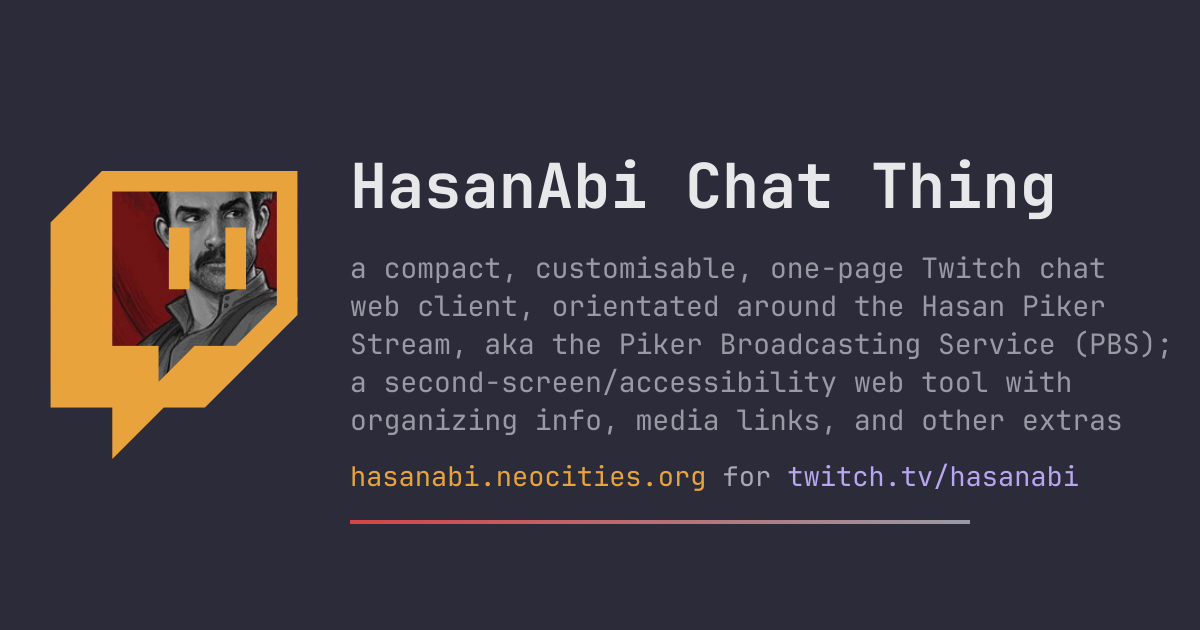
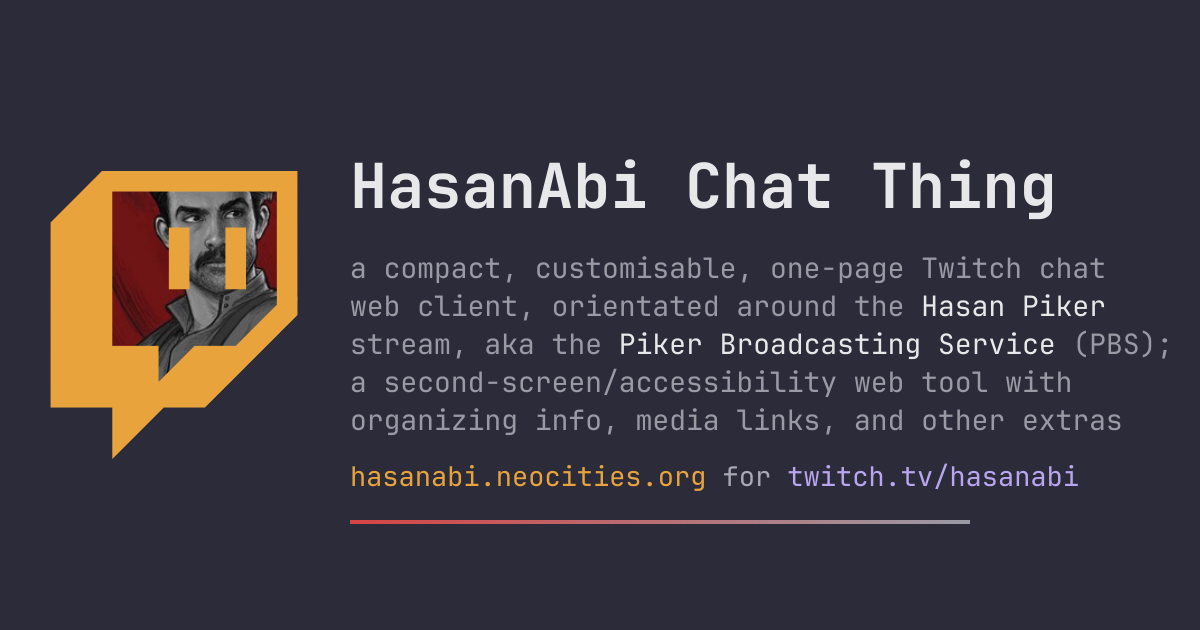
about: refine the og card wording
The stream name uses sentence case and the two Piker names sit in the
card's title colour against the muted description copy.

Generated with [Devin](https://devin.ai)

Changed region(s): [[0.5242, 0.4524, 0.925, 0.573], [0.2775, 0.5127, 0.3083, 0.5429]]

diff --git a/about/index.html b/about/index.html
@@ -4,9 +4,9 @@
 <meta charset="utf-8">
 <meta name="viewport" content="width=device-width, initial-scale=1">
 <title>HasanAbi Chat Thing - about</title>
-<meta name="description" content="a compact, customisable, one-page Twitch chat web client, orientated around the Hasan Piker Stream, aka the Piker Broadcasting Service (PBS); a second-screen/accessibility web tool with organizing info, media links, and other extras">
+<meta name="description" content="a compact, customisable, one-page Twitch chat web client, orientated around the Hasan Piker stream, aka the Piker Broadcasting Service (PBS); a second-screen/accessibility web tool with organizing info, media links, and other extras">
 <meta property="og:title" content="HasanAbi Chat Thing">
-<meta property="og:description" content="a compact, customisable, one-page Twitch chat web client, orientated around the Hasan Piker Stream, aka the Piker Broadcasting Service (PBS); a second-screen/accessibility web tool with organizing info, media links, and other extras">
+<meta property="og:description" content="a compact, customisable, one-page Twitch chat web client, orientated around the Hasan Piker stream, aka the Piker Broadcasting Service (PBS); a second-screen/accessibility web tool with organizing info, media links, and other extras">
 <meta property="og:image" content="https://hasanabi.neocities.org/og.png">
 <link rel="icon" href="../favicon.ico">
 <style>
@@ -127,7 +127,7 @@
 </head>
 <body>
 <main>
-  <div class="card"><img src="../og.png" alt="HasanAbi Chat Thing - a compact, customisable, one-page Twitch chat web client, orientated around the Hasan Piker Stream, aka the Piker Broadcasting Service (PBS); a second-screen/accessibility web tool with organizing info, media links, and other extras"></div>
+  <div class="card"><img src="../og.png" alt="HasanAbi Chat Thing - a compact, customisable, one-page Twitch chat web client, orientated around the Hasan Piker stream, aka the Piker Broadcasting Service (PBS); a second-screen/accessibility web tool with organizing info, media links, and other extras"></div>
 
   <p>liberate the
   <a href="https://www.twitch.tv/hasanabi">HasanAbi</a> Twitch chat with a web tool
